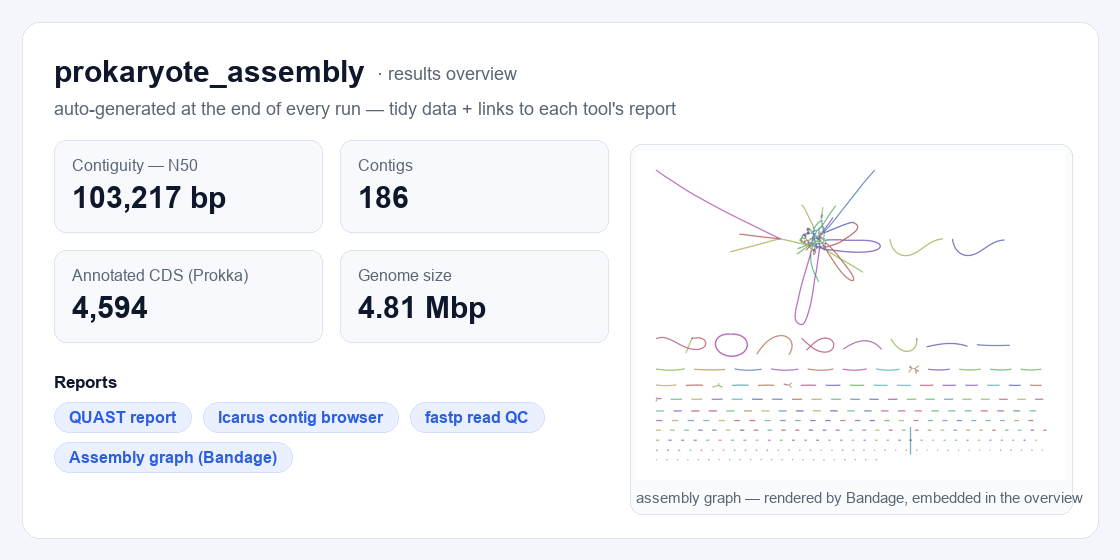
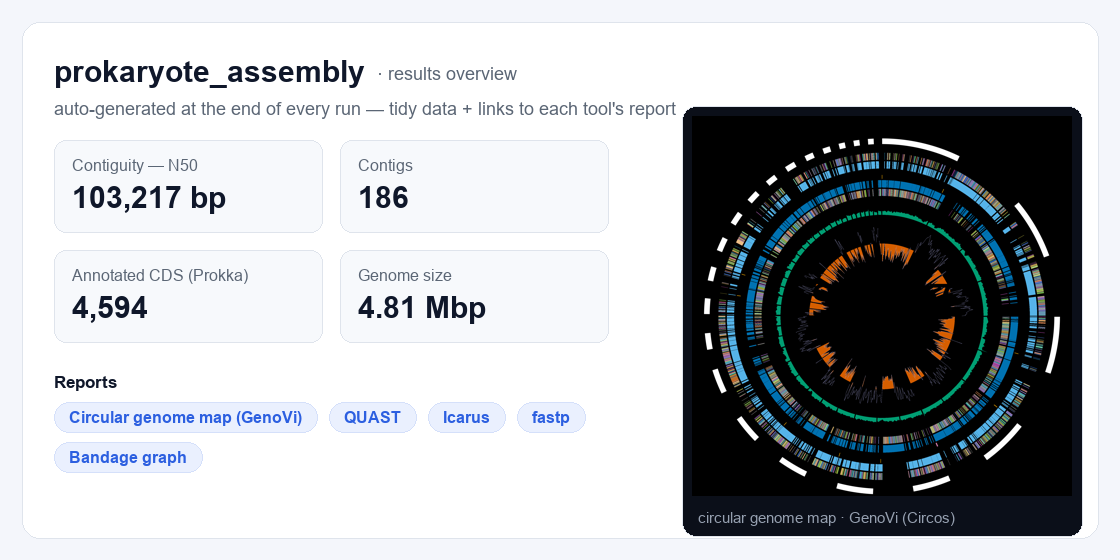
feat(viz): GenoVi circular genome map in prokaryote_assembly
Replace the hard-to-read Bandage assembly graph as the headline genome
visual with a Circos-style circular genome map rendered by GenoVi from
the Prokka annotation (CDS by COG category, GC content, GC skew).

- New tool staphb/genovi:0.4.3 (digest-pinned) under assembly_qc.
- New genome_plot stage (best-effort): filters sub-kb SPAdes fragments
  (min_contig, default 5000, --set-able) and normalises Prokka's
  malformed GenBank LOCUS lines so Biopython/GenoVi can parse them.
- results harvester surfaces genome_plot.png as "Circular genome map
  (GenoVi)"; overview embeds it.
- Landing page + overview-shot now feature the circular genome map;
  drop the unused Bandage graph asset.
- Docs regenerated (113 tools); stage-count + results tests updated.

Verified end-to-end on real SC117 reads: bioflow recipe run
prokaryote_assembly renders genome_plot.png and the overview embeds it.

Changed region(s): [[0.5625, 0.1821, 0.9688, 0.9714], [0.0625, 0.7286, 0.5312, 0.7589], [0.0625, 0.7893, 0.25, 0.85]]

diff --git a/web/index.html b/web/index.html
@@ -129,7 +129,7 @@
 <span class="c">$</span> bioflow recipe run <span class="g">prokaryote_assembly</span> \
       --r1 reads_R1.fastq.gz --r2 reads_R2.fastq.gz --out ./run
 
-  <span class="g">✓</span> fastp → SPAdes → QUAST → Bandage → Prokka
+  <span class="g">✓</span> fastp → SPAdes → QUAST → Prokka → GenoVi genome map
   <span class="g">✓</span> provenance.json + ro-crate-metadata.json written
   <span class="g">✓</span> overview → run/results/overview.html</pre>
   </div>
@@ -223,16 +223,16 @@
   <div class="grid g3">
     <div class="card"><h3>Layer 1 · tidy data</h3><p>One row per sample +
       a <code>results.json</code> schema. Load it in R/Python and make any figure.</p></div>
-    <div class="card"><h3>Layer 2 · overview</h3><p>A metrics table + the assembly graph (Bandage),
-      QUAST/Icarus and fastp reports — embedded or linked, never redrawn.</p></div>
+    <div class="card"><h3>Layer 2 · overview</h3><p>A metrics table + a circular genome map (GenoVi/Circos),
+      the assembly graph (Bandage), QUAST/Icarus and fastp reports — embedded or linked, never redrawn.</p></div>
     <div class="card"><h3>Layer 3 · interactive</h3><p>Standard BAM / BED / GFF outputs open straight
       in IGV — we delegate, we don’t lock you in.</p></div>
   </div>
   <figure style="margin:30px auto 0;max-width:780px;text-align:center">
-    <img src="assets/overview-shot.png" alt="bioflow results overview: labelled metrics (N50, contigs, CDS, genome size), one-click links to each tool's report, and the embedded Bandage assembly graph"
+    <img src="assets/overview-shot.png" alt="bioflow results overview: labelled metrics (N50, contigs, CDS, genome size), one-click links to each tool's report, and the embedded GenoVi circular genome map"
       style="width:100%;border:1px solid var(--line);border-radius:14px">
     <figcaption style="color:var(--muted);font-size:13px;margin-top:9px">
-      A real results overview — labelled metrics plus one-click links to each tool's own report (QUAST, Icarus, fastp, Bandage), generated automatically at the end of the run.</figcaption>
+      A real results overview — labelled metrics, a circular genome map rendered by GenoVi (Circos), plus one-click links to each tool's own report (QUAST, Icarus, fastp, Bandage), generated automatically at the end of the run.</figcaption>
   </figure>
 </div></section>
 

diff --git a/bioflow/recipes/genome_assembly/prokaryote_assembly.py b/bioflow/recipes/genome_assembly/prokaryote_assembly.py
@@ -108,10 +108,79 @@ def graph_image(asm, *, out_dir):
     )
 
 
+# Standalone filter, kept as a raw string so every backslash (regex escapes,
+# ``\n``) reaches the container's Python verbatim through the heredoc.
+#
+# Why not ``Bio.SeqIO``?  Prokka writes GenBank ``LOCUS`` lines from SPAdes'
+# long contig names (``NODE_1_length_283413_cov_6.882027``); when the name
+# overflows the fixed-width columns the length field collides with the
+# coverage (``…cov_6.882027283413 bp``) and Biopython's strict parser aborts
+# the whole file.  We instead split records on ``//`` and read the true length
+# from the always-present ``length_<N>`` token in the name, rewriting each
+# LOCUS line to a canonical, Biopython-parseable form (GenoVi itself parses
+# with Biopython, so the rewrite is what lets it read the assembly at all).
+_GENOME_PLOT_FILTER = r'''import sys, re
+src, cut, dst = sys.argv[1], int(sys.argv[2]), sys.argv[3]
+data = open(src, encoding="utf-8", errors="replace").read()
+records = re.split(r"(?m)^//\s*$", data)
+out, kept = [], 0
+for rec in records:
+    rec = rec.strip("\n")
+    if not rec.strip():
+        continue
+    lines = rec.split("\n")
+    loc_idx = next((j for j, l in enumerate(lines) if l.startswith("LOCUS")), None)
+    if loc_idx is None:
+        continue
+    m = re.search(r"length_(\d+)", lines[loc_idx])
+    if not m:
+        continue
+    L = int(m.group(1))
+    if L < cut:
+        continue
+    kept += 1
+    lines[loc_idx] = "LOCUS       C%-16d%11d bp    DNA     linear   UNK 01-JAN-1980" % (kept, L)
+    out.append("\n".join(lines).rstrip("\n") + "\n//")
+with open(dst, "w", encoding="utf-8") as fh:
+    fh.write("\n".join(out) + "\n")
+sys.stderr.write("genome_plot: kept %d contigs >= %d bp\n" % (kept, cut))
+'''
+
+
+@stage(image="staphb/genovi:0.4.3", cpu=4, ram_gb=8, depends_on=annotate)
+def genome_plot(ann, *, out_dir, sample_id: str = "sample", min_contig: int = 5000):
+    """GenoVi: a Circos-style circular genome map from the Prokka annotation.
+
+    Draws CDS coloured by COG functional category (forward/reverse strands),
+    GC content, and GC skew — a publication-style figure that is far more
+    legible than the raw assembly graph.
+
+    Circos chokes on the hundreds of sub-kb fragments a draft SPAdes assembly
+    leaves behind, so we first drop contigs shorter than ``min_contig``
+    (default 5 kb — keeps ~all of a typical bacterial genome; override per run
+    with ``--set genome_plot.min_contig=20000`` for a cleaner figure on very
+    fragmented assemblies).
+
+    Best effort: the plot is a convenience, so a genome that GenoVi cannot
+    render never fails the pipeline (the run's QUAST / Prokka / fastp outputs
+    are unaffected).
+    """
+    gbk = f"{ann.out_dir}/prokka/{sample_id}.gbk"
+    return (
+        f"cd {out_dir}\n"
+        f'python - "{gbk}" "{min_contig}" filtered.gbk <<\'PY\'\n'
+        f"{_GENOME_PLOT_FILTER}"
+        "PY\n"
+        f'genovi -i filtered.gbk -s draft -o genome -t "{sample_id}" || true\n'
+        f"cp genome/genome.png {out_dir}/genome_plot.png 2>/dev/null || true\n"
+        "true\n"
+    )
+
+
 # ── Pipeline ────────────────────────────────────────────────────────────────
 
 @pipeline(
-    stages=[qc_trim, assemble, assembly_qc, graph_image, annotate],
+    stages=[qc_trim, assemble, assembly_qc, graph_image, annotate, genome_plot],
     description="Prokaryote short-read de novo assembly + Prokka annotation",
 )
 def prokaryote_assembly(
@@ -121,7 +190,7 @@ def prokaryote_assembly(
     out_dir: Path,
     sample_id: str = "sample",
 ):
-    """fastp → SPAdes → QUAST + Bandage graph + Prokka end-to-end."""
+    """fastp → SPAdes → QUAST + Bandage graph + Prokka + GenoVi genome map."""
     out_dir = Path(out_dir).resolve()
     out_dir.mkdir(parents=True, exist_ok=True)
 
@@ -129,7 +198,9 @@ def prokaryote_assembly(
     asm = assemble(clean)
     assembly_qc(asm)                # QUAST report lands in its own out_dir
     graph_image(asm)                # Bandage assembly-graph PNG
-    return annotate(asm, sample_id=sample_id)
+    ann = annotate(asm, sample_id=sample_id)
+    genome_plot(ann, sample_id=sample_id)   # GenoVi circular genome map
+    return ann
 
 
 register("prokaryote_assembly", prokaryote_assembly)

diff --git a/tests/unit/test_results.py b/tests/unit/test_results.py
@@ -47,6 +47,9 @@ def _mk_sample(root: Path, sid: str, *, contigs, total, n50, gc, cds, rrna, trna
     g = root / sid / ".cache" / f"graph_image__{sid}h"
     g.mkdir(parents=True)
     (g / "assembly_graph.png").write_bytes(b"\x89PNG\r\n\x1a\n")   # Bandage output
+    gp = root / sid / ".cache" / f"genome_plot__{sid}h"
+    gp.mkdir(parents=True)
+    (gp / "genome_plot.png").write_bytes(b"\x89PNG\r\n\x1a\n")     # GenoVi output
 
 
 def test_parse_quast_takes_bare_metrics(tmp_path):
@@ -93,18 +96,19 @@ def test_build_overview_end_to_end(tmp_path):
     assert manifest["tables"][0]["columns"][0] == "sample_id"
     # manifest indexes each tool's own report page (relative, forward slashes)
     assert set(manifest["reports"]["S1"]) == {
-        "QUAST report", "Icarus contig browser", "fastp read QC",
-        "Assembly graph (Bandage)"}
+        "Circular genome map (GenoVi)", "QUAST report", "Icarus contig browser",
+        "fastp read QC", "Assembly graph (Bandage)"}
     assert manifest["reports"]["S1"]["QUAST report"].endswith("report.html")
     assert "\\" not in manifest["reports"]["S1"]["QUAST report"]
 
     # Layer 2 artifact — table + links to the tools' own reports (not redrawn);
-    # image outputs (Bandage PNG) are embedded, HTML pages are linked.
+    # image outputs (GenoVi + Bandage PNGs) are embedded, HTML pages are linked.
     page = Path(res["overview"]).read_text(encoding="utf-8")
     assert "S1" in page and "S2" in page
     assert "QUAST report" in page and "Icarus contig browser" in page
     assert "report.html" in page
     assert "<img" in page and "assembly_graph.png" in page
+    assert "Circular genome map (GenoVi)" in page and "genome_plot.png" in page
 
 
 def test_build_overview_unknown_recipe_raises(tmp_path):

diff --git a/tests/unit/test_recipes_per_pipeline.py b/tests/unit/test_recipes_per_pipeline.py
@@ -13,7 +13,7 @@ from bioflow.recipes import get, names
 
 
 EXPECTED_RECIPES = {
-    "prokaryote_assembly":  5,   # fastp → spades → quast → bandage → prokka
+    "prokaryote_assembly":  6,   # fastp → spades → quast → bandage → prokka → genovi
     "eukaryote_assembly":   4,   # nanoplot → flye → medaka → compleasm
     "rnaseq_deg":           6,   # fastp → salmon_index → salmon_quant → deseq2 → enrich → multiqc
     "metagenomics_profile": 4,   # fastp → kraken2 → bracken → krona

diff --git a/bioflow/core/results.py b/bioflow/core/results.py
@@ -146,6 +146,7 @@ def harvest_prokaryote_assembly(workspace: Path) -> "tuple[list[dict], dict]":
         # Links to the established tools' own report pages — paper-grade,
         # interactive; we surface them rather than redrawing the plots.
         found = {
+            "Circular genome map (GenoVi)": _find_report(root, "genome_plot.png"),
             "QUAST report": _find_report(root, "report.html"),
             "Icarus contig browser": _find_report(root, "icarus.html"),
             "fastp read QC": _find_report(root, "fastp.html"),

diff --git a/CHANGELOG.md b/CHANGELOG.md
@@ -14,6 +14,25 @@ ship bug fixes only.  Breaking changes to the documented public API
 
 ## [Unreleased]
 
+### Added — GenoVi circular genome map in prokaryote_assembly
+- New `GenoVi` tool (`staphb/genovi:0.4.3`, digest-pinned) + a `genome_plot`
+  stage that turns the Prokka annotation into a Circos-style **circular genome
+  map** — CDS coloured by COG functional category, GC content and GC skew — a
+  publication-style figure that is far more legible than the raw assembly graph.
+  The results overview embeds it (the harvester surfaces `genome_plot.png` as
+  "Circular genome map (GenoVi)"), and it is now the headline visual on the
+  landing page in place of the Bandage graph.
+- Robust to Prokka's malformed GenBank `LOCUS` lines: SPAdes' long contig names
+  overflow the fixed-width columns and collide the length with the coverage
+  field (`…cov_6.882027283413 bp`), which aborts Biopython's strict parser — so
+  the stage splits records on `//`, reads the true length from the `length_<N>`
+  token, and rewrites each `LOCUS` line to a canonical, parseable form before
+  handing the assembly to GenoVi.
+- A `min_contig` knob (default 5000) drops the sub-kb fragments Circos chokes
+  on; override per run with `--set genome_plot.min_contig=20000` for a cleaner
+  figure on very fragmented assemblies.  Best effort: a genome GenoVi cannot
+  render never fails the pipeline.  (GenoVi: Cumsille et al. 2023, PMID 37014908.)
+
 ### Added — Krona interactive taxonomy chart in metagenomics_profile
 - New `Krona` tool (`staphb/krona:2.8.1`, digest-pinned) + a `krona_chart` stage
   that turns the Bracken abundance table into a self-contained interactive

diff --git a/README.md b/README.md
@@ -27,7 +27,7 @@ and a privacy-first LLM companion is available when you want it.
     rnaseq_deg, metagenomics_profile, metagenome_assembly, scrna_seq,
     chip_seq, atac_seq, methylation_wgbs, proteomics_dda,
     germline_variants, joint_genotyping (GATK cohort best practice).
-- **110 tools** registered across 16 categories, all pulled as
+- **113 tools** registered across 16 categories, all pulled as
   BioContainer images at run time — nothing to install on the host
   beyond Docker + Python.
 - **Hardware-aware**: every tool is classified `installable` /
@@ -54,13 +54,13 @@ subset that fits *your* CPU / RAM / GPU / arch, run `bioflow tools`.
 <!-- TOOLS-TABLE:START -->
 <!-- Auto-generated by scripts/gen_docs.py — do not edit by hand. -->
 
-**112 tools** across **16 categories**.  Full catalog with versions, images, and citations: [docs/reference/tools.md](docs/reference/tools.md).
+**113 tools** across **16 categories**.  Full catalog with versions, images, and citations: [docs/reference/tools.md](docs/reference/tools.md).
 
 | Category | # | Examples |
 |---|--:|---|
 | alignment | 6 | `bedtools`, `bowtie2`, `bwa`, `bwa_mem2`, … |
 | assembly | 16 | `abyss`, `canu`, `flye`, `hifiasm`, … |
-| assembly_qc | 7 | `bandage`, `busco`, `checkm2`, `compleasm`, … |
+| assembly_qc | 8 | `bandage`, `busco`, `checkm2`, `compleasm`, … |
 | comparative_genomics | 11 | `abricate`, `cafe5`, `diamond`, `fastani`, … |
 | deg | 3 | `deseq2`, `edger`, `limma_voom` |
 | enrichment | 4 | `clusterprofiler`, `enrichr`, `gseapy`, `topgo` |

diff --git a/docs/reference/tools.md b/docs/reference/tools.md
@@ -1,6 +1,6 @@
 # Tools
 
-**112 tools** across 16 categories, all pulled as BioContainer / public images on first use.  This page is auto-generated from `registry/tools/` by `scripts/gen_docs.py`.
+**113 tools** across 16 categories, all pulled as BioContainer / public images on first use.  This page is auto-generated from `registry/tools/` by `scripts/gen_docs.py`.
 
 ## alignment  (6)
 
@@ -34,7 +34,7 @@
 | `unicycler` | 0.5.1 | `quay.io/biocontainers/unicycler:0.5.1--py312hdcc493e_5` | Wick 2017, PMID 28594827 |
 | `verkko` | 2.2.1 | `quay.io/biocontainers/verkko:2.2.1--h45dadce_0` | Rautiainen 2023, PMID 36797492 |
 
-## assembly_qc  (7)
+## assembly_qc  (8)
 
 | Tool | Version | Image | Citation |
 |---|---|---|---|
@@ -42,6 +42,7 @@
 | `busco` | 5.7.1 | `quay.io/biocontainers/busco:5.7.1--pyhdfd78af_0` | Manni 2021, PMID 34320675 |
 | `checkm2` | 1.0.2 | `quay.io/biocontainers/checkm2:1.0.2--pyh7cba7a3_0` | Chklovski 2023, PMID 37501070 |
 | `compleasm` | 0.2.6 | `quay.io/biocontainers/compleasm:0.2.6--pyh7cba7a3_0` | Huang & Li 2023, PMID 37862556 |
+| `genovi` | 0.4.3 | `staphb/genovi:0.4.3` | Cumsille et al. 2023, PMID 37014908 |
 | `gfastats` | 1.3.7 | `quay.io/biocontainers/gfastats:1.3.7--hdcf5f25_1` | Formenti 2022, PMID 35639517 |
 | `merqury` | 1.3 | `quay.io/biocontainers/merqury:1.3--hdfd78af_1` | Rhie 2020, PMID 33025931 |
 | `quast` | 5.2.0 | `staphb/quast:5.2.0` | Mikheenko 2018, PMID 29949969 |

diff --git a/docs/reference/recipes.md b/docs/reference/recipes.md
@@ -169,12 +169,13 @@ Single-copy core gene supermatrix → MAFFT × N → IQ-TREE ML
 
 Prokaryote short-read de novo assembly + Prokka annotation
 
-*5 stage(s):*
+*6 stage(s):*
 
 - **qc_trim** — `quay.io/biocontainers/fastp:0.23.4--h5f740d0_0`
 - **assemble** — `staphb/spades:4.0.0`
 - **annotate** — `staphb/prokka:1.14.6`
 - **assembly_qc** — `staphb/quast:5.2.0`
+- **genome_plot** — `staphb/genovi:0.4.3`
 - **graph_image** — `staphb/bandage:0.8.1`
 
 ## `proteomics_dda`